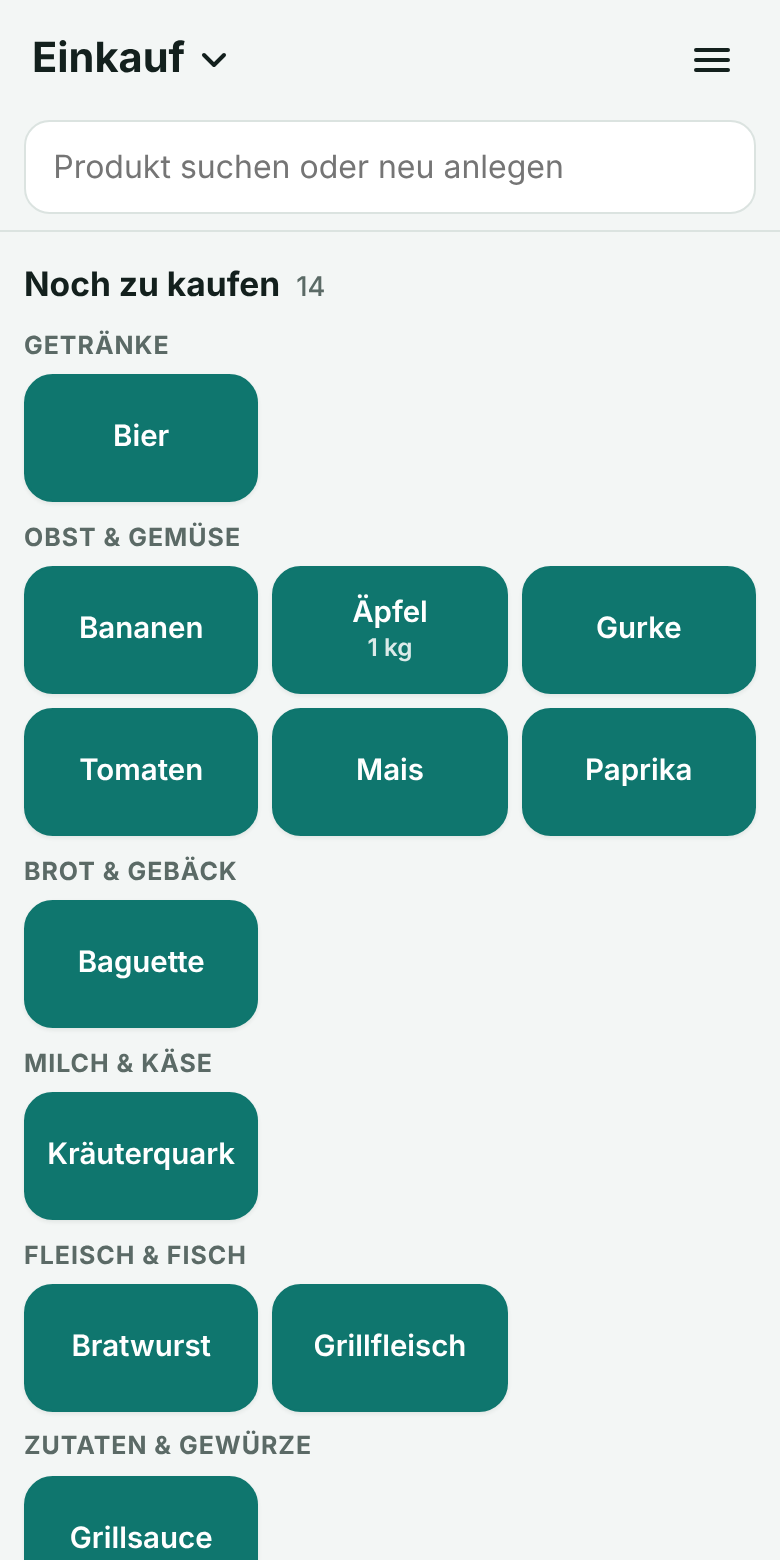
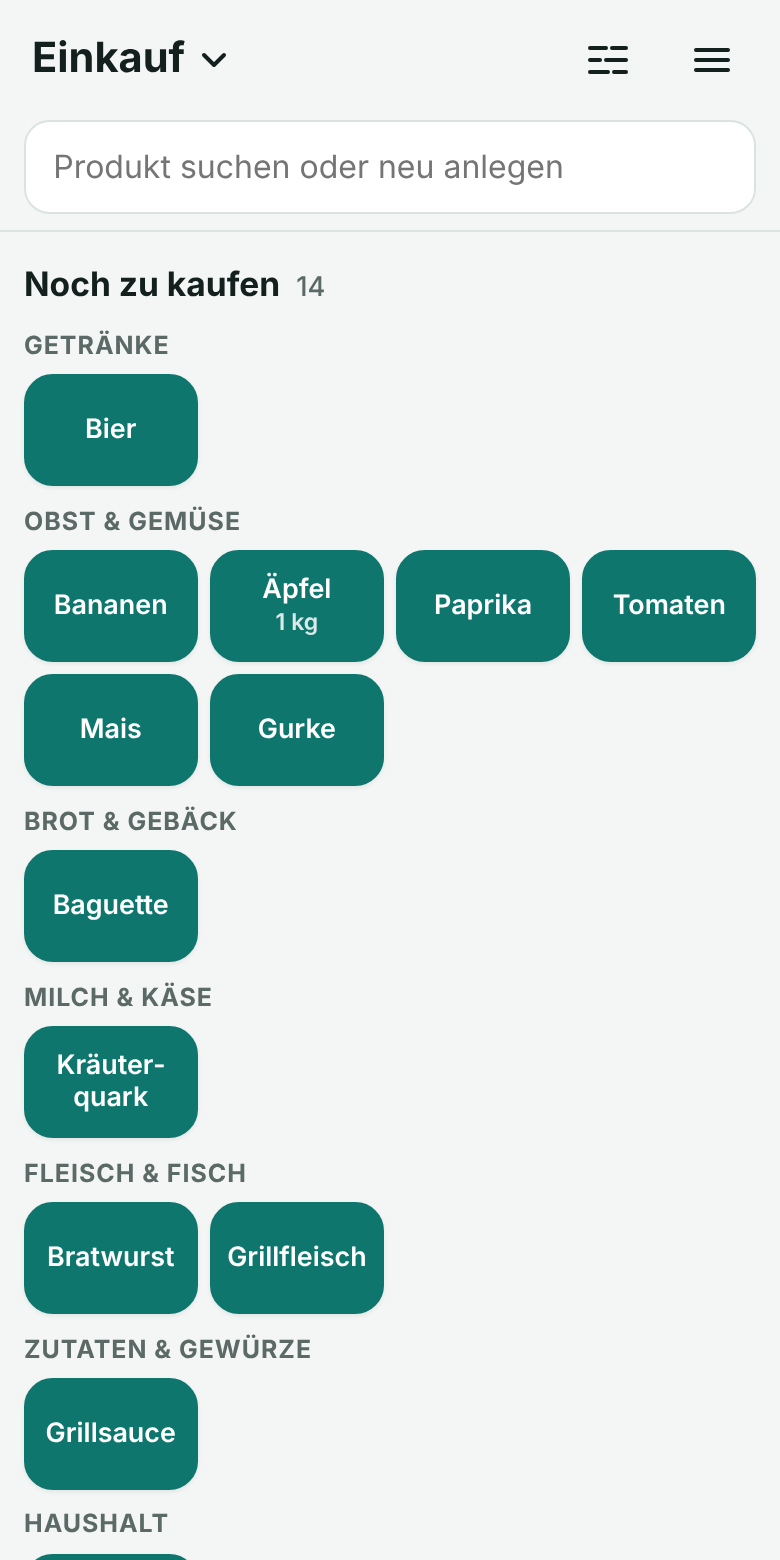
Zwei Ansichten: kleine Kacheln und kompakt, umschaltbar im Kopf und in den Einstellungen
Claude-Session: https://claude.ai/code/session_01GvUq7HThLhvX2m4BNaDcAp

Changed region(s): [[0.0308, 0.2154, 0.9846, 1.0], [0.7385, 0.0308, 0.8, 0.0615]]

diff --git a/app/assets/app.js b/app/assets/app.js
@@ -39,12 +39,13 @@ function icon(path) {
 const I = {
     x: 'M6 6l12 12M18 6L6 18', down: 'M6 9l6 6 6-6', up: 'M6 15l6-6 6 6', more: 'M5 12h.01M12 12h.01M19 12h.01',
     edit: 'M4 20h4L19 9l-4-4L4 16v4zM14 6l4 4', grip: 'M5 9h14M5 15h14',
+    tiles: 'M4 4h6v6H4zM14 4h6v6h-6zM4 14h6v6H4zM14 14h6v6h-6z', compact: 'M3 6h8M14 6h7M3 12h5M11 12h10M3 18h9M15 18h6',
 };
 
 const LS = {
     get(k, d) { try { const v = localStorage.getItem('kf_' + k); return v == null ? d : JSON.parse(v); } catch (e) { return d; } },
     set(k, v) { try { localStorage.setItem('kf_' + k, JSON.stringify(v)); } catch (e) {} },
-    clear() { try { Object.keys(localStorage).filter(k => k.startsWith('kf_') && k !== 'kf_theme').forEach(k => localStorage.removeItem(k)); } catch (e) {} },
+    clear() { try { Object.keys(localStorage).filter(k => k.startsWith('kf_') && k !== 'kf_theme' && k !== 'kf_view').forEach(k => localStorage.removeItem(k)); } catch (e) {} },
 };
 
 const low = s => String(s).toLocaleLowerCase('de');
@@ -769,13 +770,25 @@ async function wake() {
     } catch (e) {}
 }
 
+/** Zwei Ansichten: kleine Kacheln oder kompakte Schildchen. Gemerkt pro Gerät. */
+function applyView() {
+    const compact = LS.get('view', 'tiles') === 'compact';
+    main.classList.toggle('compact', compact);
+    const btn = $('#viewBtn');
+    fill(btn, icon(compact ? I.tiles : I.compact));   // der Knopf zeigt, wohin er umschaltet
+    btn.title = compact ? 'Zur Kachel-Ansicht' : 'Zur kompakten Ansicht';
+}
+
 function showSettings() {
     const sh = sheet('Einstellungen');
     const theme = h('select', { onchange: () => { LS.set('theme', theme.value); applyTheme(); } },
         [['auto', 'Wie das Gerät'], ['light', 'Hell'], ['dark', 'Dunkel']].map(([v, t]) => h('option', { value: v, selected: LS.get('theme', 'auto') === v }, t)));
     const wakeBox = h('input', { type: 'checkbox', checked: LS.get('wake', true), onchange: () => { LS.set('wake', wakeBox.checked); wake(); } });
     const ivInput = h('input', { type: 'number', min: '1', max: '60', inputmode: 'numeric', value: String(S.interval) });
-    put(sh.body, 
+    const view = h('select', { onchange: () => { LS.set('view', view.value); applyView(); } },
+        [['tiles', 'Kleine Kacheln'], ['compact', 'Kompakt']].map(([v, t]) => h('option', { value: v, selected: LS.get('view', 'tiles') === v }, t)));
+    put(sh.body,
+        h('label', { class: 'field' }, 'Ansicht (nur dieses Gerät)', view),
         h('label', { class: 'field' }, 'Design (nur dieses Gerät)', theme),
         h('label', { class: 'check' }, wakeBox, h('span', null, 'Bildschirm anlassen, solange Kaufen offen ist')),
         h('div', { class: 'btns' }, h('button', { class: 'btn', type: 'button', onclick: () => ask('Passwort ändern', [
@@ -822,12 +835,14 @@ function showMenu() {
 
 /* ---------- Start ---------- */
 $('#menuBtn').addEventListener('click', () => { if (S) showMenu(); });
+$('#viewBtn').addEventListener('click', () => { LS.set('view', LS.get('view', 'tiles') === 'compact' ? 'tiles' : 'compact'); applyView(); });
 $('#listBtn').addEventListener('click', () => { if (S) showLists(); });
 document.addEventListener('visibilitychange', () => { wake(); if (!document.hidden) tick(); });
 window.addEventListener('online', tick);
 window.addEventListener('offline', () => setOnline(false));
 
 applyTheme();
+applyView();
 render();
 tick();
 wake();

diff --git a/app/assets/app.css b/app/assets/app.css
@@ -35,7 +35,7 @@ svg { width: 1.25rem; height: 1.25rem; flex: none; }
 .iconbtn svg { width: 1.5rem; height: 1.5rem; }
 .listbtn:hover, .iconbtn:hover { background: var(--acc-soft); }
 .net { margin-left: auto; font-size: .78rem; font-weight: 600; padding: .2rem .55rem; border-radius: 1rem; background: #f5c542; color: #3b2c00; white-space: nowrap; }
-.net:not([hidden]) + .iconbtn { margin-left: 0; }
+.net:not([hidden]) + .iconbtn, .iconbtn + .iconbtn { margin-left: 0; }
 #q, .field input, .field select, .field textarea, .login input {
     width: 100%; padding: .7rem .85rem; border: 1px solid var(--line); border-radius: .8rem; background: var(--card); outline: none; }
 #q:focus, .field input:focus, .field select:focus, .field textarea:focus, .login input:focus { border-color: var(--acc); box-shadow: 0 0 0 3px var(--acc-soft); }
@@ -47,13 +47,13 @@ h2:first-child { margin-top: .25rem; }
 h2 small { font-weight: 500; color: var(--mut); font-size: .85rem; }
 .grp { margin: .6rem 0 .3rem; font-size: .78rem; font-weight: 700; letter-spacing: .04em; text-transform: uppercase; color: var(--mut); }
 .hint { color: var(--mut); margin: .5rem 0 1rem; }
-.grid { display: grid; grid-template-columns: repeat(auto-fill, minmax(6.4rem, 1fr)); gap: .45rem; }
-.tile { display: flex; flex-direction: column; align-items: center; justify-content: center; gap: .1rem; min-height: 4rem; padding: .45rem .4rem;
+.grid { display: grid; grid-template-columns: repeat(auto-fill, minmax(5.1rem, 1fr)); gap: .4rem; }
+.tile { display: flex; flex-direction: column; align-items: center; justify-content: center; gap: .1rem; min-height: 3.5rem; padding: .4rem .3rem;
         border: 1px solid var(--line); border-radius: .9rem; background: var(--card); box-shadow: var(--shadow); text-align: center;
-        font-size: .92rem; line-height: 1.2; overflow-wrap: anywhere; hyphens: auto; user-select: none; -webkit-user-select: none; -webkit-touch-callout: none;
+        font-size: .84rem; line-height: 1.2; overflow-wrap: anywhere; hyphens: auto; user-select: none; -webkit-user-select: none; -webkit-touch-callout: none;
         touch-action: manipulation; transition: transform .08s; }
 .tile:active { transform: scale(.96); }
-.tile .tt { font-size: .76rem; opacity: .85; }
+.tile .tt { font-size: .72rem; opacity: .85; }
 .tile .tb { font-size: .68rem; opacity: .7; }
 .tile.on { background: var(--acc); border-color: var(--acc); color: var(--acc-text); font-weight: 600; }
 .tile.has { border-color: var(--acc); background: var(--acc-soft); }
@@ -132,3 +132,12 @@ button.row { font-weight: 600; }
 .login input { margin-top: .3rem; background: var(--bg); color: var(--text); font-weight: 400; }
 .login .btn { width: 100%; margin-top: .4rem; }
 .row.danger { color: var(--danger); }
+
+/* Kompakte Ansicht: Produkte als schmale Schildchen nebeneinander, so breit wie ihr Name */
+.compact .grid { display: flex; flex-wrap: wrap; gap: .3rem; }
+.compact .tile { flex-direction: row; flex-wrap: wrap; align-items: center; align-content: center; column-gap: .35rem; min-height: 2.25rem; padding: .3rem .7rem; border-radius: 1.2rem;
+                 font-size: .9rem; hyphens: manual; text-align: left; max-width: 100%; }
+.compact .grp { margin: .45rem 0 .25rem; }
+.compact .cat { padding: .55rem .85rem; margin-top: .3rem; }
+.compact .cat + .grid { margin: .35rem 0 .6rem; }
+.compact h2 { margin-top: .8rem; }

diff --git a/app/views/app.php b/app/views/app.php
@@ -24,6 +24,7 @@ $kfV = function (string $f): string { return h('?action=asset&f=' . $f . '&v=' .
     <div class="bar">
         <button id="listBtn" class="listbtn" type="button" aria-label="Liste wechseln"><span id="listName">Kaufen</span><svg viewBox="0 0 20 20" aria-hidden="true"><path d="M5 7.5l5 5 5-5" fill="none" stroke="currentColor" stroke-width="2" stroke-linecap="round" stroke-linejoin="round"/></svg></button>
         <span id="net" class="net" hidden></span>
+        <button id="viewBtn" class="iconbtn" type="button" aria-label="Ansicht wechseln"></button>
         <button id="menuBtn" class="iconbtn" type="button" aria-label="Menü"><svg viewBox="0 0 24 24" aria-hidden="true"><path d="M4 7h16M4 12h16M4 17h16" fill="none" stroke="currentColor" stroke-width="2" stroke-linecap="round"/></svg></button>
     </div>
     <div class="search">

diff --git a/README.md b/README.md
@@ -26,6 +26,7 @@ Produkte tippt man aus einem fertigen Katalog an, sortiert nach Warengruppen. Im
 - **Bildschirm bleibt an**, solange die App offen ist (abschaltbar).
 - **Katalog verwalten:** Produkte und Warengruppen anlegen, umbenennen, verschieben, löschen. Der Administrator kann alles löschen und den Standard wiederherstellen. Vor jeder großen Änderung wird automatisch gesichert, die letzten 10 Stände lassen sich zurückholen.
 - **Konten:** das erste Konto ist der Administrator, er legt die anderen an. Eine offene Registrierung gibt es nicht.
+- **Zwei Ansichten:** kleine Kacheln oder kompakt, umschaltbar mit dem Knopf oben rechts, gemerkt pro Gerät.
 - Als App installierbar (PWA), heller und dunkler Modus, Bremse gegen das Durchprobieren von Passwörtern.
 
 ## Voraussetzungen
